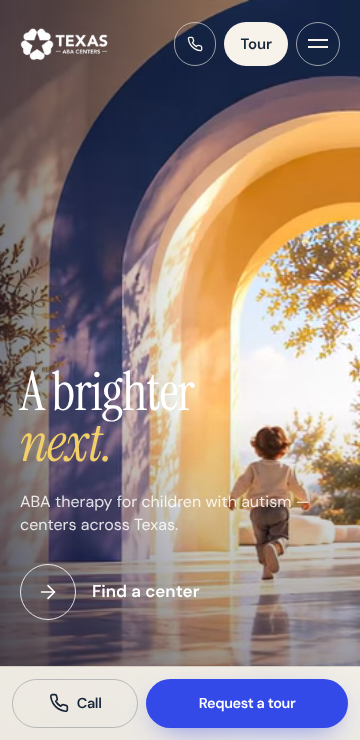
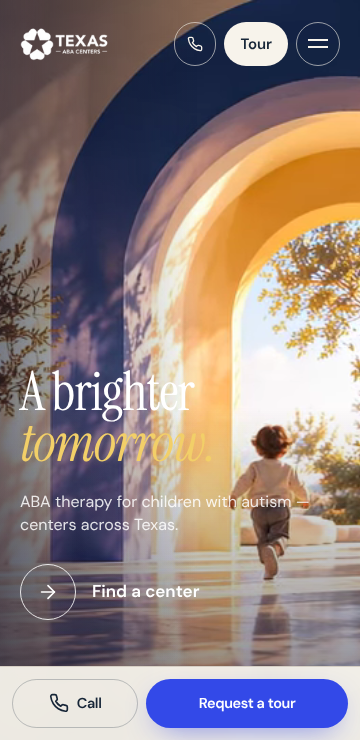
Hero: "A brighter tomorrow."
Second line of the hero headline changes from "next." to "tomorrow."
(same italic gold, same entrance and glow). Fits without overflow at
1440, 390 and 360. The link-preview image is re-rendered from the new
hero and its alt text updated.

Claude-Session: https://claude.ai/code/session_0148iGctpp869iqiiacvHED3

diff --git a/src/components/hero/VideoHero.tsx b/src/components/hero/VideoHero.tsx
@@ -157,7 +157,7 @@ export function VideoHero() {
           <h1 id="hero-title" className={styles.h1}>
             <span className={styles.word}>A</span> <span className={styles.word}>brighter</span>
             <br />
-            <span className={styles.next}>next.</span>
+            <span className={styles.next}>tomorrow.</span>
           </h1>
           <p className={styles.sub}>ABA therapy for children with autism — centers across Texas.</p>
           <motion.div style={reduce ? undefined : { y: ctaY }}>

diff --git a/src/app/layout.tsx b/src/app/layout.tsx
@@ -26,7 +26,7 @@ export const metadata: Metadata = {
     title: 'ABA Therapy & Autism Evaluations in Texas | Texas ABA Centers',
     description: site.tagline,
     url: site.url,
-    images: [{ url: '/og-home.png', width: 1200, height: 630, alt: 'Texas ABA Centers: a whole lot of life happens next' }],
+    images: [{ url: '/og-home.png', width: 1200, height: 630, alt: 'Texas ABA Centers: a brighter tomorrow' }],
   },
   twitter: { card: 'summary_large_image' },
   robots: { index: true, follow: true },
